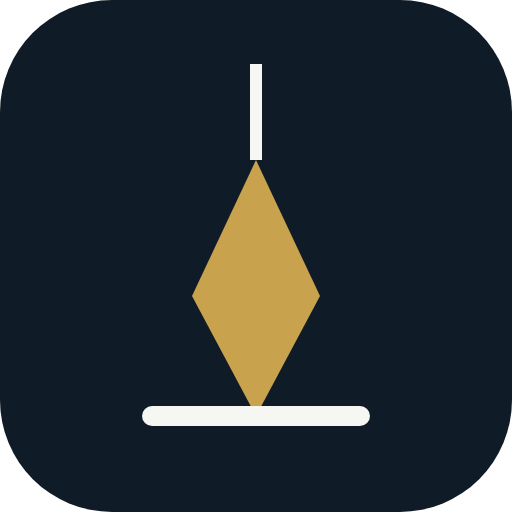
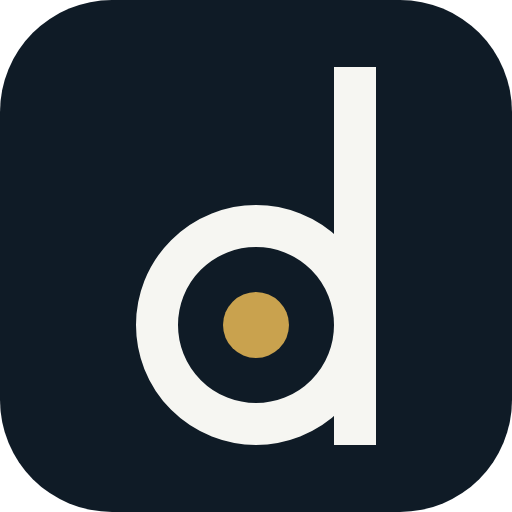
R11: gate-aware nav and landing, constructed wordmark, crawl guard against dead links
The public release no longer offers any link that answers 404. The landing page shows a labelled sample slab from the
synthetic workspace and a numbered four-step flow. The approved wordmark and d mark replace the old logo everywhere.
The smoke test now crawls every offered link and fails if a closed route is advertised.

Changed region(s): [[0.25, 0.125, 0.75, 0.875]]

diff --git a/apps/web/app/page.tsx b/apps/web/app/page.tsx
@@ -1,13 +1,43 @@
+import { connection } from 'next/server';
+import { appEnabled } from '../lib/app-gate';
+import { readFixtureWorkspace } from './invoice-workspace';
 import { SiteNav } from './site-nav';
+import { PlumbBob, TokenAmount } from './ui';
 
-export default function Landing() {
+/**
+ * Landing. Dynamic, because which doors exist depends on the release profile read at request time. Every link offered
+ * here must resolve in the profile that rendered it (enforced by the link crawl in scripts/p13-product-smoke.mjs).
+ * The slab below is a labelled sample taken from the synthetic demo workspace, never a live invoice.
+ */
+export default async function Landing() {
+  await connection();
+  const open = appEnabled();
+  const sample = readFixtureWorkspace(Date.now()).invoices.find(i => i.id === 'INV-0042')!;
   return <><SiteNav /><main id="main" className="product-shell">
-    <section className="product-hero"><div><p className="product-kicker">Celo Mainnet · USDt → cNGN</p>
+    <section className="product-hero"><div>
       <h1>Invoice in cNGN.<br />Fund it in USDt.</h1>
+      <p className="product-lede">Two currencies. One agreement. Verified settlement.</p>
       <p>Set the exact amount your recipient should receive and a maximum all-in USDt debit. Daidai checks both before conversion and verifies the separate recipient payout.</p>
-      <div className="product-actions"><a className="btn primary" href="/invoices/new">Create an invoice</a><a className="btn secondary" href="/pay">Review a payment</a></div>
-    </div><aside className="product-card"><p className="product-kicker">Verifiable on Celo</p><h2>Agent #10103</h2><p>Inspect the finalized registration and the rules that govern invoice review.</p><a href="/proof">View registration proof ↗</a></aside></section>
-    <div className="product-points"><section><h2>Exact recipient amount</h2><p>Commit the cNGN amount before reviewing a quote.</p></section><section><h2>All-in USDt cap</h2><p>The fee is included in the payer’s maximum debit.</p></section><section><h2>Two finalized steps</h2><p>Conversion and payout have independent evidence.</p></section></div>
-    <a href="/demo">Try the isolated demo ↗</a>
+      <div className="product-actions">
+        {open ? <><a className="btn primary" href="/invoices/new">Create an invoice</a><a className="btn secondary" href="/demo">Open the demo workspace</a></>
+          : <><a className="btn primary" href="/demo">Open the demo workspace</a><a className="btn secondary" href="/proof">See the public proof</a></>}
+      </div>
+      {!open && <p className="product-note">Live invoicing is invite-only and closed on this site. The demo uses synthetic data and moves no money.</p>}
+    </div>
+    <section className="slab sample-slab" aria-label="Sample invoice from the demo workspace">
+      <PlumbBob size={22} onInk className="slab-mark" />
+      <div className="slab-body">
+        <p className="sample-tag">Sample from the demo workspace · synthetic data</p>
+        <p className="slab-sentence">{sample.recipient} receives exactly <span className="nowrap"><TokenAmount value={sample.target} unit="cNGN" className="display-amount" /></span></p>
+        <p className="slab-peg">The payer’s ceiling is <TokenAmount value={sample.cap} unit="USDt" /> all-in, fee included. The recipient’s amount never changes.</p>
+      </div>
+    </section></section>
+    <ol className="product-flow" aria-label="How a payment settles">
+      <li><h2>Agree</h2><p>Supplier and payer each sign the exact cNGN amount and the USDt ceiling.</p></li>
+      <li><h2>Convert</h2><p>One firm quote, one owner-approved swap, checked against the signed terms.</p></li>
+      <li><h2>Pay</h2><p>A separate, exact cNGN transfer to the supplier’s wallet.</p></li>
+      <li><h2>Verify</h2><p>Independent readers confirm both transactions. A restart resumes at the payout and never repeats the conversion.</p></li>
+    </ol>
+    <p className="product-note">Registered on Celo as ERC-8004 Agent #10103. Live settlement is not yet authorised; the <a href="/proof">proof page</a> states exactly what has and has not been verified.</p>
   </main></>;
 }

diff --git a/apps/web/app/product-site.css b/apps/web/app/product-site.css
@@ -1,5 +1,5 @@
 .product-nav {display:flex; flex-wrap:wrap; align-items:center; gap:12px 24px; padding:16px max(18px,calc((100% - 1120px)/2)); border-bottom:1px solid var(--color-rule); background:var(--color-paper);}
-.product-mark {font-weight:700; font-size:1.35rem; text-decoration:none;}
+.product-mark {display:inline-flex; align-items:center; text-decoration:none; padding:6px 0;}
 .product-nav nav {display:flex; flex-wrap:wrap; gap:8px 18px; font-size:.9rem;}
 .product-nav nav a,.product-sign-in {text-underline-offset:4px;}
 .product-sign-in {margin-left:auto;}
@@ -7,12 +7,20 @@
 .product-hero {display:grid; gap:24px; grid-template-columns:minmax(0,1.45fr) minmax(0,1fr); align-items:center;}
 .product-hero h1 {font-size:clamp(2.7rem,6vw,5.5rem); line-height:.99; letter-spacing:-.055em; font-weight:650; margin:14px 0 20px;}
 .product-hero p {max-width:42rem;}
-.product-kicker {font-family:var(--font-mono); font-size:.78rem; color:var(--color-brass-text);}
-.product-card {background:var(--color-ink); color:var(--color-paper); border-radius:var(--radius-panel); padding:28px; display:grid; gap:14px;}
-.product-card .product-kicker {color:var(--color-brass);}
-.product-card h2 {font-size:clamp(2rem,4vw,3.4rem); font-weight:650;}
-.product-actions,.product-points {display:flex; flex-wrap:wrap; gap:12px; margin-top:20px;}
-.product-points section {flex:1 1 220px; padding:20px 0; border-top:1px solid var(--color-rule);}
-.product-points h2 {font-weight:650; margin-bottom:6px;}
+.product-actions {display:flex; flex-wrap:wrap; gap:12px; margin-top:24px;}
 .product-evidence {overflow-wrap:anywhere; display:grid; gap:10px;}
-@media(max-width:690px){.product-nav nav{order:2;width:100%;}.product-hero{grid-template-columns:minmax(0,1fr);}.product-shell{padding:28px 16px;}.product-card{padding:20px;}}
+
+.brand-wordmark {height:1.5rem; width:auto; display:block; overflow:visible;}
+.product-mark .brand-wordmark {height:24px;}
+.top-brand .brand-wordmark {height:22px;}
+.rail-brand .brand-wordmark {height:26px;}
+.product-lede {font-size:1.25rem; font-weight:550; margin:0 0 14px; color:var(--color-ink);}
+.product-note {margin-top:4px; max-width:46rem; color:var(--color-ink-muted); font-size:.95rem;}
+.sample-slab {margin:0; border-radius:var(--radius-sheet);}
+.sample-tag {justify-self:start; background:var(--color-demo-tint); color:var(--color-demo); border-radius:4px; padding:3px 8px; font-size:.8125rem; font-weight:550;}
+.product-flow {list-style:none; margin:8px 0 0; padding:0; display:grid; grid-template-columns:repeat(4,minmax(0,1fr)); gap:0 28px; counter-reset:step;}
+.product-flow li {counter-increment:step; padding:20px 0 0; border-top:1px solid var(--color-rule); position:relative;}
+.product-flow li::before {content:counter(step); display:block; font-weight:650; color:var(--color-brass-text); margin-bottom:4px;}
+.product-flow h2 {font-weight:650; margin-bottom:6px;}
+@media(max-width:900px){.product-flow{grid-template-columns:repeat(2,minmax(0,1fr));}}
+@media(max-width:690px){.product-nav nav{order:2;width:100%;}.product-hero{grid-template-columns:minmax(0,1fr);}.product-shell{padding:28px 16px;}.product-flow{grid-template-columns:minmax(0,1fr);}}

diff --git a/apps/web/app/site-nav.tsx b/apps/web/app/site-nav.tsx
@@ -1,6 +1,20 @@
-export function SiteNav() {
-  return <header className="product-nav"><a className="product-mark" href="/">◆ Daidai</a>
-    <nav aria-label="Main navigation"><a href="/invoices">Invoices</a><a href="/pay">Pay</a><a href="/activity">Activity</a><a href="/agent">Agent</a><a href="/proof">Proof</a><a href="/demo">Demo</a></nav>
-    <a className="product-sign-in" href="/login">Sign in</a>
+import { cookies } from 'next/headers';
+import { appEnabled } from '../lib/app-gate';
+import { SESSION_COOKIE } from '../lib/session';
+import { BrandWordmark } from './brand';
+
+/**
+ * Gate-aware navigation. A route that answers 404 in this profile is never offered: in the public release only the
+ * reviewer-facing pages appear. Pages that render this must be dynamic, because the gate is read at request time.
+ */
+export async function SiteNav() {
+  const open = appEnabled();
+  const signedIn = open && (await cookies()).has(SESSION_COOKIE);
+  return <header className="product-nav"><a className="product-mark" href="/" aria-label="Daidai home"><BrandWordmark /></a>
+    <nav aria-label="Main navigation">
+      {open && <a href="/invoices">Invoices</a>}{open && <a href="/pay">Pay</a>}{open && <a href="/activity">Activity</a>}
+      <a href="/agent">Agent</a><a href="/proof">Proof</a><a href="/demo">Demo</a>
+    </nav>
+    {open && !signedIn && <a className="product-sign-in" href="/login">Sign in</a>}
   </header>;
 }

diff --git a/apps/web/app/brand.tsx b/apps/web/app/brand.tsx
@@ -1,0 +1,16 @@
+/**
+ * The Daidai wordmark, constructed from circles and strokes of one weight: every letter in "daidai" is a bowl, a stem, or
+ * both, so the mark is drawn rather than typeset. The two i-dots are the only colour. Presentation only; no client code.
+ */
+const R = 33, BOTTOM = 40, ASCENDER = -86, XHEIGHT = -40;
+const GLYPHS: readonly (readonly ['d' | 'a' | 'i', number])[] = [['d', 40], ['a', 135], ['i', 206], ['d', 268], ['a', 363], ['i', 434]];
+
+export function BrandWordmark({ onInk = false, className = '' }: { onInk?: boolean; className?: string }) {
+  const letter = { stroke: onInk ? 'var(--color-paper)' : 'var(--color-ink)', strokeWidth: 14, fill: 'none' } as const;
+  const dot = { fill: onInk ? 'var(--color-brass)' : 'var(--color-brass-deep)' } as const;
+  return <svg className={'brand-wordmark' + (className ? ' ' + className : '')} viewBox="0 -88 441 130" role="img" aria-label="Daidai" focusable="false">
+    {GLYPHS.map(([ch, x], n) => ch === 'i'
+      ? <g key={n}><path d={`M${x} ${XHEIGHT}V${BOTTOM}`} style={letter} /><circle cx={x} cy={-62} r={9} style={dot} /></g>
+      : <g key={n}><circle cx={x} cy={0} r={R} style={letter} /><path d={`M${x + R} ${ch === 'd' ? ASCENDER : XHEIGHT}V${BOTTOM}`} style={letter} /></g>)}
+  </svg>;
+}

diff --git a/apps/web/app/ui.tsx b/apps/web/app/ui.tsx
@@ -1,15 +1,12 @@
 'use client';
 
 import { useState, type ReactNode } from 'react';
+import { BrandWordmark } from './brand';
 import { formatNumber, type Token } from './model';
 
-/** The Daidai wordmark: Schibsted 600, the dots of both i's replaced by level brass diamonds. */
+/** The Daidai wordmark (see brand.tsx): constructed from circles and strokes, the i-dots in brass. */
 export function Wordmark({ onInk = false, className = '' }: { onInk?: boolean; className?: string }) {
-  const i = <span className="wm-i" aria-hidden="true">ı<span className="wm-dot" /></span>;
-  return <span className={'wordmark' + (onInk ? ' on-ink' : '') + (className ? ' ' + className : '')}>
-    <span className="sr-only">Daidai</span>
-    <span aria-hidden="true">Da</span>{i}<span aria-hidden="true">da</span>{i}
-  </span>;
+  return <BrandWordmark onInk={onInk} className={'wordmark' + (className ? ' ' + className : '')} />;
 }
 
 /** The plumb bob: a hairline into a brass diamond whose point lands on an ink baseline. */

diff --git a/apps/web/app/daidai.css b/apps/web/app/daidai.css
@@ -97,11 +97,8 @@ button:disabled { cursor: not-allowed; }
 @media (min-width: 1024px) { .display-amount { font-size: 3.5rem; line-height: 3.5rem; } }
 
 /* ------------------------------------------------------------------ brand */
-.wordmark { display: inline-flex; align-items: baseline; font-weight: 600; font-size: 1.5rem; line-height: 1; letter-spacing: -0.03em;
-  font-variant-ligatures: none; color: var(--color-ink); --wm-dot: var(--color-brass-deep); }
-.wordmark.on-ink { color: var(--color-paper); --wm-dot: var(--color-brass); }
-.wm-i { position: relative; display: inline-block; }
-.wm-dot { position: absolute; left: 50%; top: -.02em; width: .2em; height: .2em; background: var(--wm-dot); transform: translateX(-50%) rotate(45deg); }
+/* The wordmark is an SVG (brand.tsx); its colours come from the ink and brass tokens, sizes from the contexts below. */
+.wordmark { flex: none; }
 
 .plumb-bob { flex: none; overflow: visible; }
 .plumb-bob .pb-line { stroke: var(--color-ink); stroke-width: 1.25; }

diff --git a/PROGRESS.md b/PROGRESS.md
@@ -21,6 +21,12 @@ Deployment provenance (P0), resolved by inspection of the Vercel account. daidai
 Live /proof evidence observed through the account: Ankr reported the finalized registration (block 0x4f9cc45, finalized head 0x4fb2f6c) while Forno reported a missing receipt, so the page correctly shows unresolved.
 Not done: Loops enrollment re-check, live Textile preview, RPC qualification run, pilot payer and supplier recruitment.
 
+### R11 — gate-aware public experience, first pass (2026-11-27)
+Source: apps/web site-nav.tsx (now async and gate-aware), app/page.tsx, app/brand.tsx (new), app/ui.tsx, app/product-site.css, app/icon.svg and the three PNG icons, scripts/p13-product-smoke.mjs. Changes: the public release no longer offers any door that answers 404 (the audit found Invoices, Activity, Sign in and the main "Create an invoice" button all returning 404). The nav lists Invoices, Pay and Activity only when the private gate is open and hides Sign in once a session cookie exists; the landing page leads with the demo workspace and the public proof when the gate is closed and says plainly that live invoicing is invite-only. The landing page now shows a labelled sample slab taken from the synthetic demo workspace instead of a credential card, replaces the three-column feature row with a numbered four-step flow (a real sequence), and drops the mono eyebrow. The approved constructed wordmark and "d" mark replace the old logo in the nav, the demo rail and top bar, the favicon, the Apple icon and the manifest icons. Routes that read the gate at request time are dynamic.
+Tests actually run: p13 smoke now also fails if the public profile offers Invoices, Activity, Sign in or Create an invoice, and crawls every same-origin link on every public page (15 distinct links, all 200); reintroducing an always-visible Invoices link made it fail with "/ offers Invoices", then the fix was restored. Web typecheck clean; production and demo builds pass; model 4 of 4; fixture browser 14 of 14; P10.4 3 of 3; P10.5 5 of 5; full-stack merchant-to-payer journey 30 of 30; smoke passes under both the CI environment and the exact public-release environment. Rendered and inspected at 1440, 820 and 390 px; two defects in my own stylesheet (stacked buttons from a dangling selector, and media queries ordered before their base rule) were found by looking at the render and fixed.
+Evidence: docs/evidence/m4-landing/ (home desktop, home mobile, demo desktop).
+Not done: /proof and /agent still lack the verdict band, labelled hashes and dated recorded snapshot; /demo still shows the site nav above the workspace rail (two wordmarks); the authenticated pages still use generic cards instead of the demo components; keyboard and axe checks were not re-run on the new landing page.
+
 ## Open blockers and next action
 | Priority | Blocker | Next evidence |
 |---|---|---|
@@ -31,10 +37,10 @@ Not done: Loops enrollment re-check, live Textile preview, RPC qualification run
 | P0 | Production variables left over from the untraced deployment | Owner deletes the five variables listed above; rotate the service key |
 | P0 | Loops indexing and current identity unverified | Read-only dashboard and chain check; retain existing wallet, code and agent; no re-registration |
 | P0 | No conversion or external payout | M3 after M2 and a separate financial approval |
-| P1 | Dead public navigation and split visual language | Gate-aware nav and CTA, reuse of Ink and Brass, approved wordmark applied (next engineering task) |
+| P1 | Split visual language remains on /proof, /agent and the authenticated pages | Verdict band, labelled hashes and recorded snapshot on /proof and /agent; authenticated pages on the demo components; hide the site nav inside /demo. Dead links and the old logo are fixed (R11 first pass) |
 | Deferred | Hosted sign-in (an identity-provider app id was offered) | Not on the P0 path: the pilot is a local journal. Revisit only after M3 and a separate review |
 
-Next highest priority: the gate-aware public experience (R11), which needs no external access, in parallel with the owner running the M0 probe and recruiting the pilot. Then M2 once liveReady is true. Do not enable dispatch until every gate in TESTING passes. Before any work, inspect current main and PR status; do not overwrite concurrent changes.
+Next highest priority: finish R11 (/proof and /agent evidence layout, /demo chrome, authenticated pages on the demo components), which needs no external access, in parallel with the owner running the M0 probe and recruiting the pilot. Then M2 once liveReady is true. Do not enable dispatch until every gate in TESTING passes. Before any work, inspect current main and PR status; do not overwrite concurrent changes.
 
 ## Handover format
 For each milestone add date, source commit, changes, tests actually executed and results, evidence paths, decisions and blockers, next action. Never record intended work as completed. Target Dec 4 review, Dec 6 ready, Dec 7 10:00 WAT deadline. No new track.
